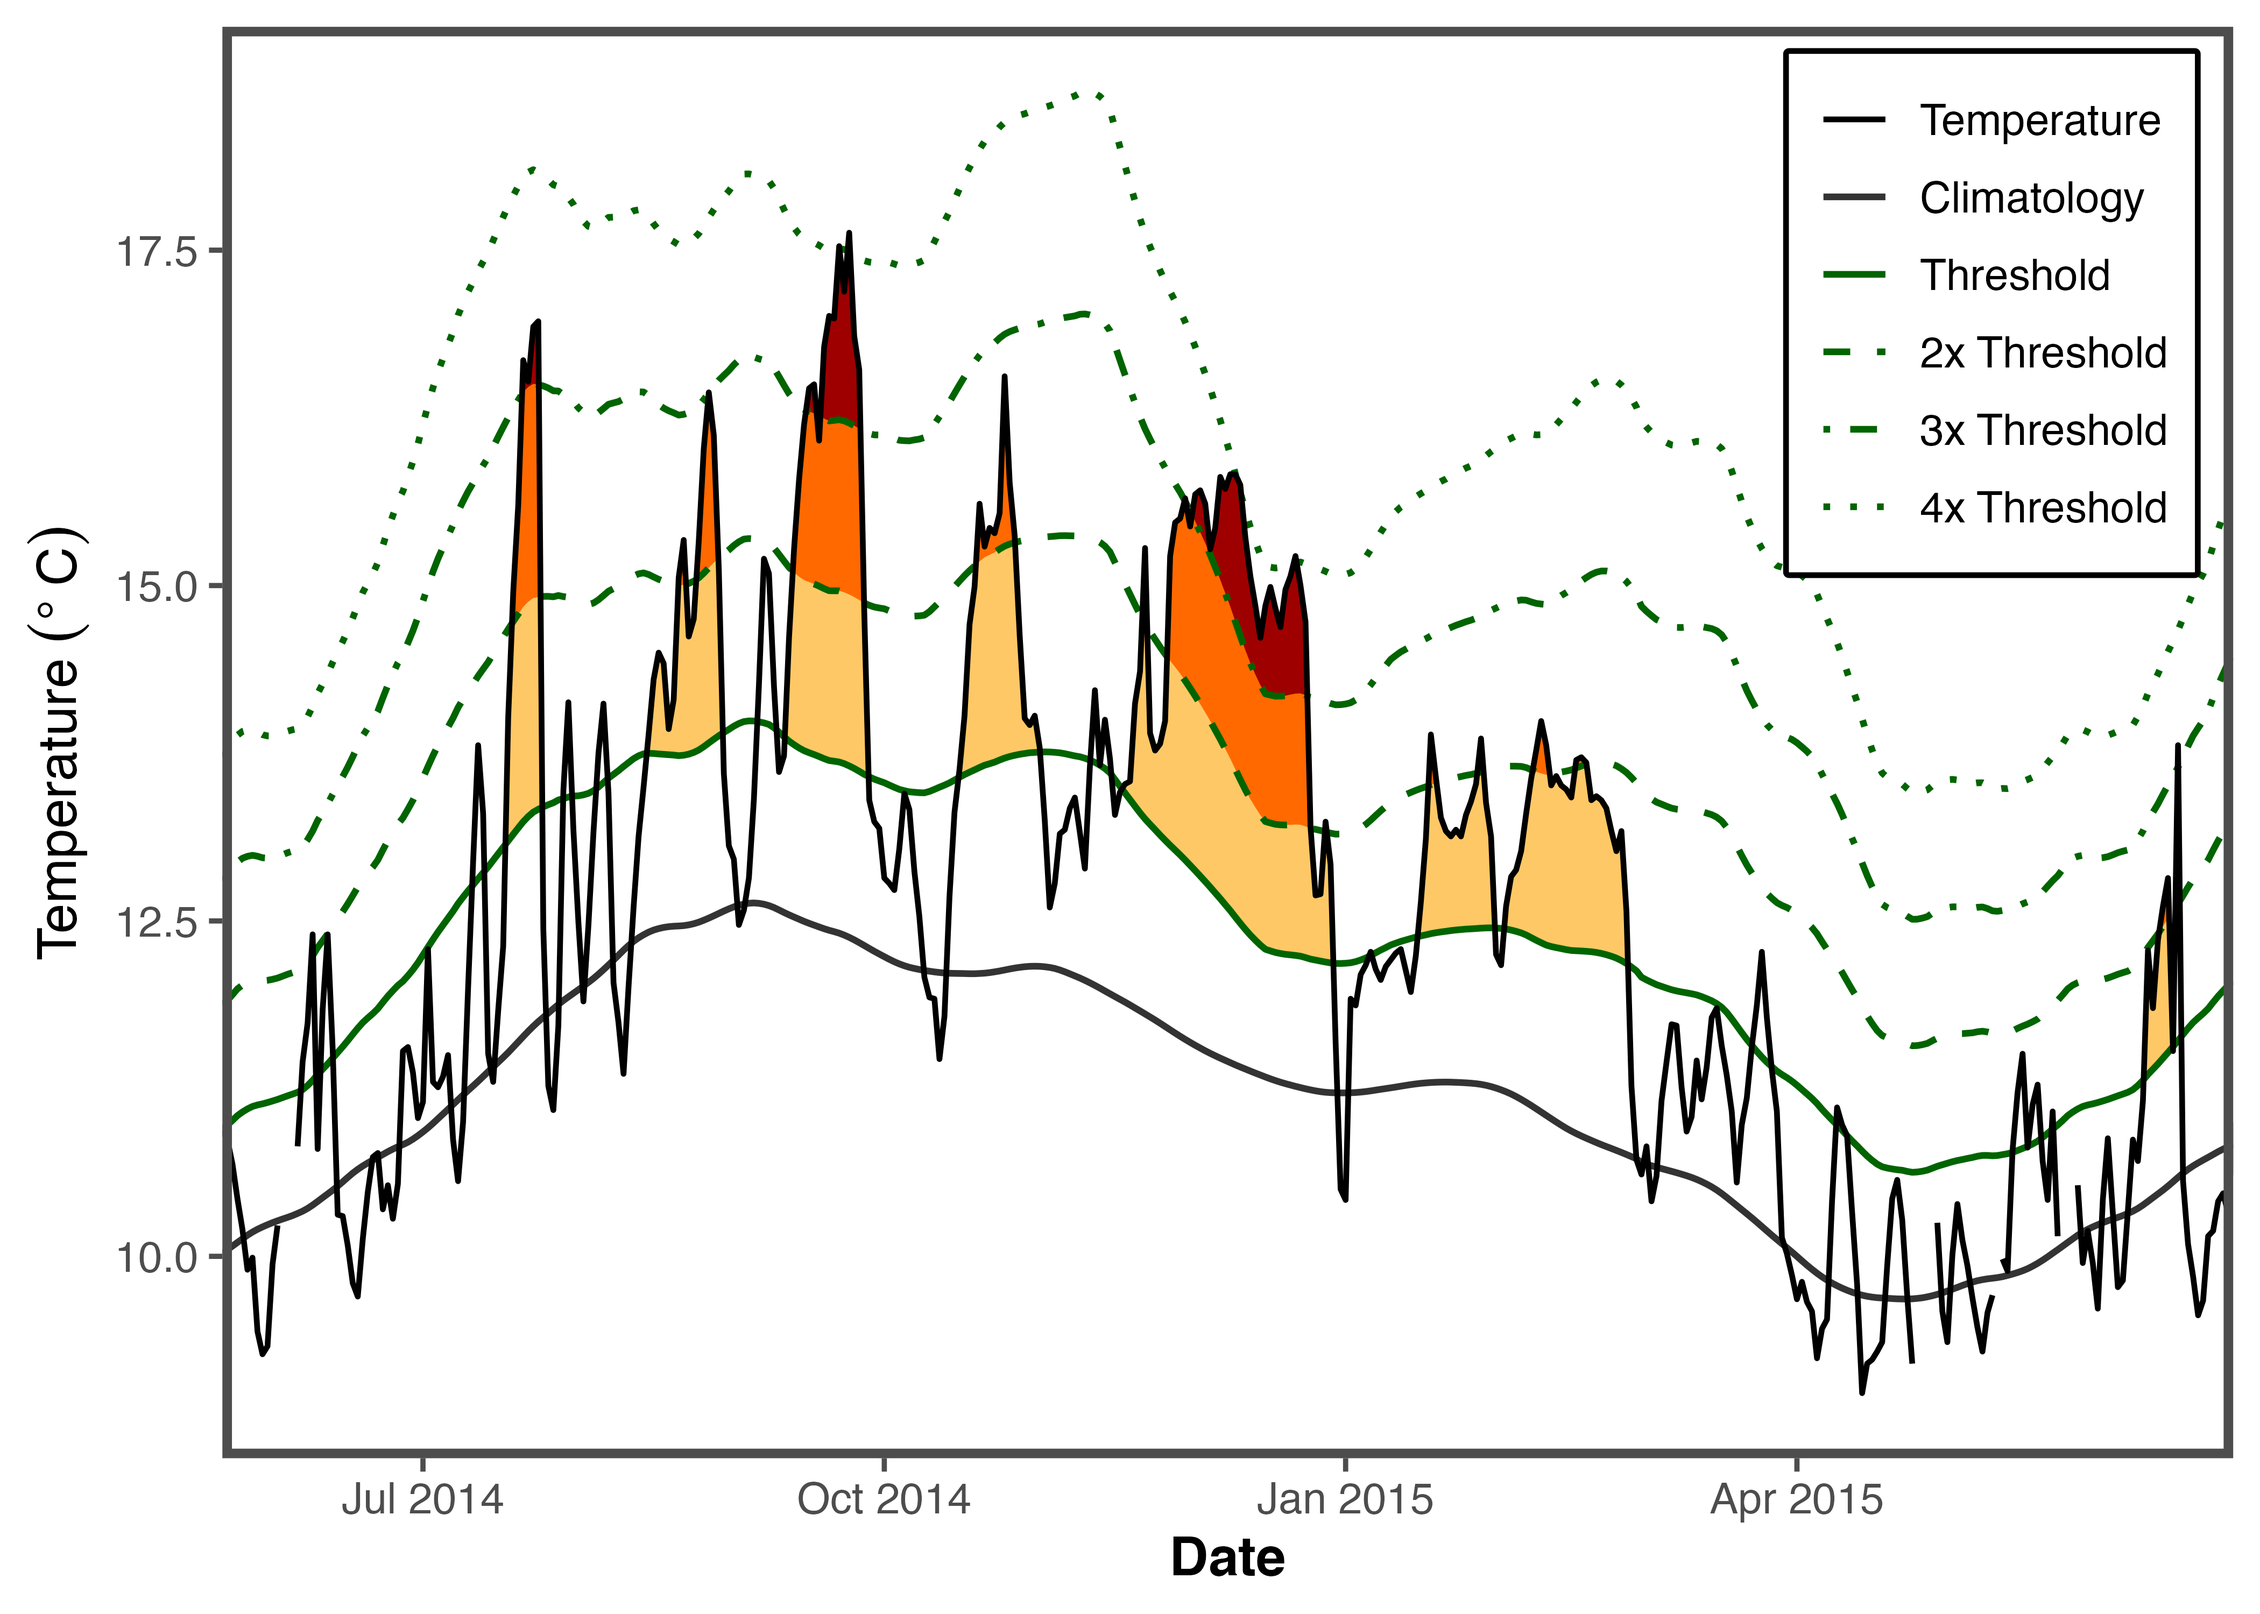
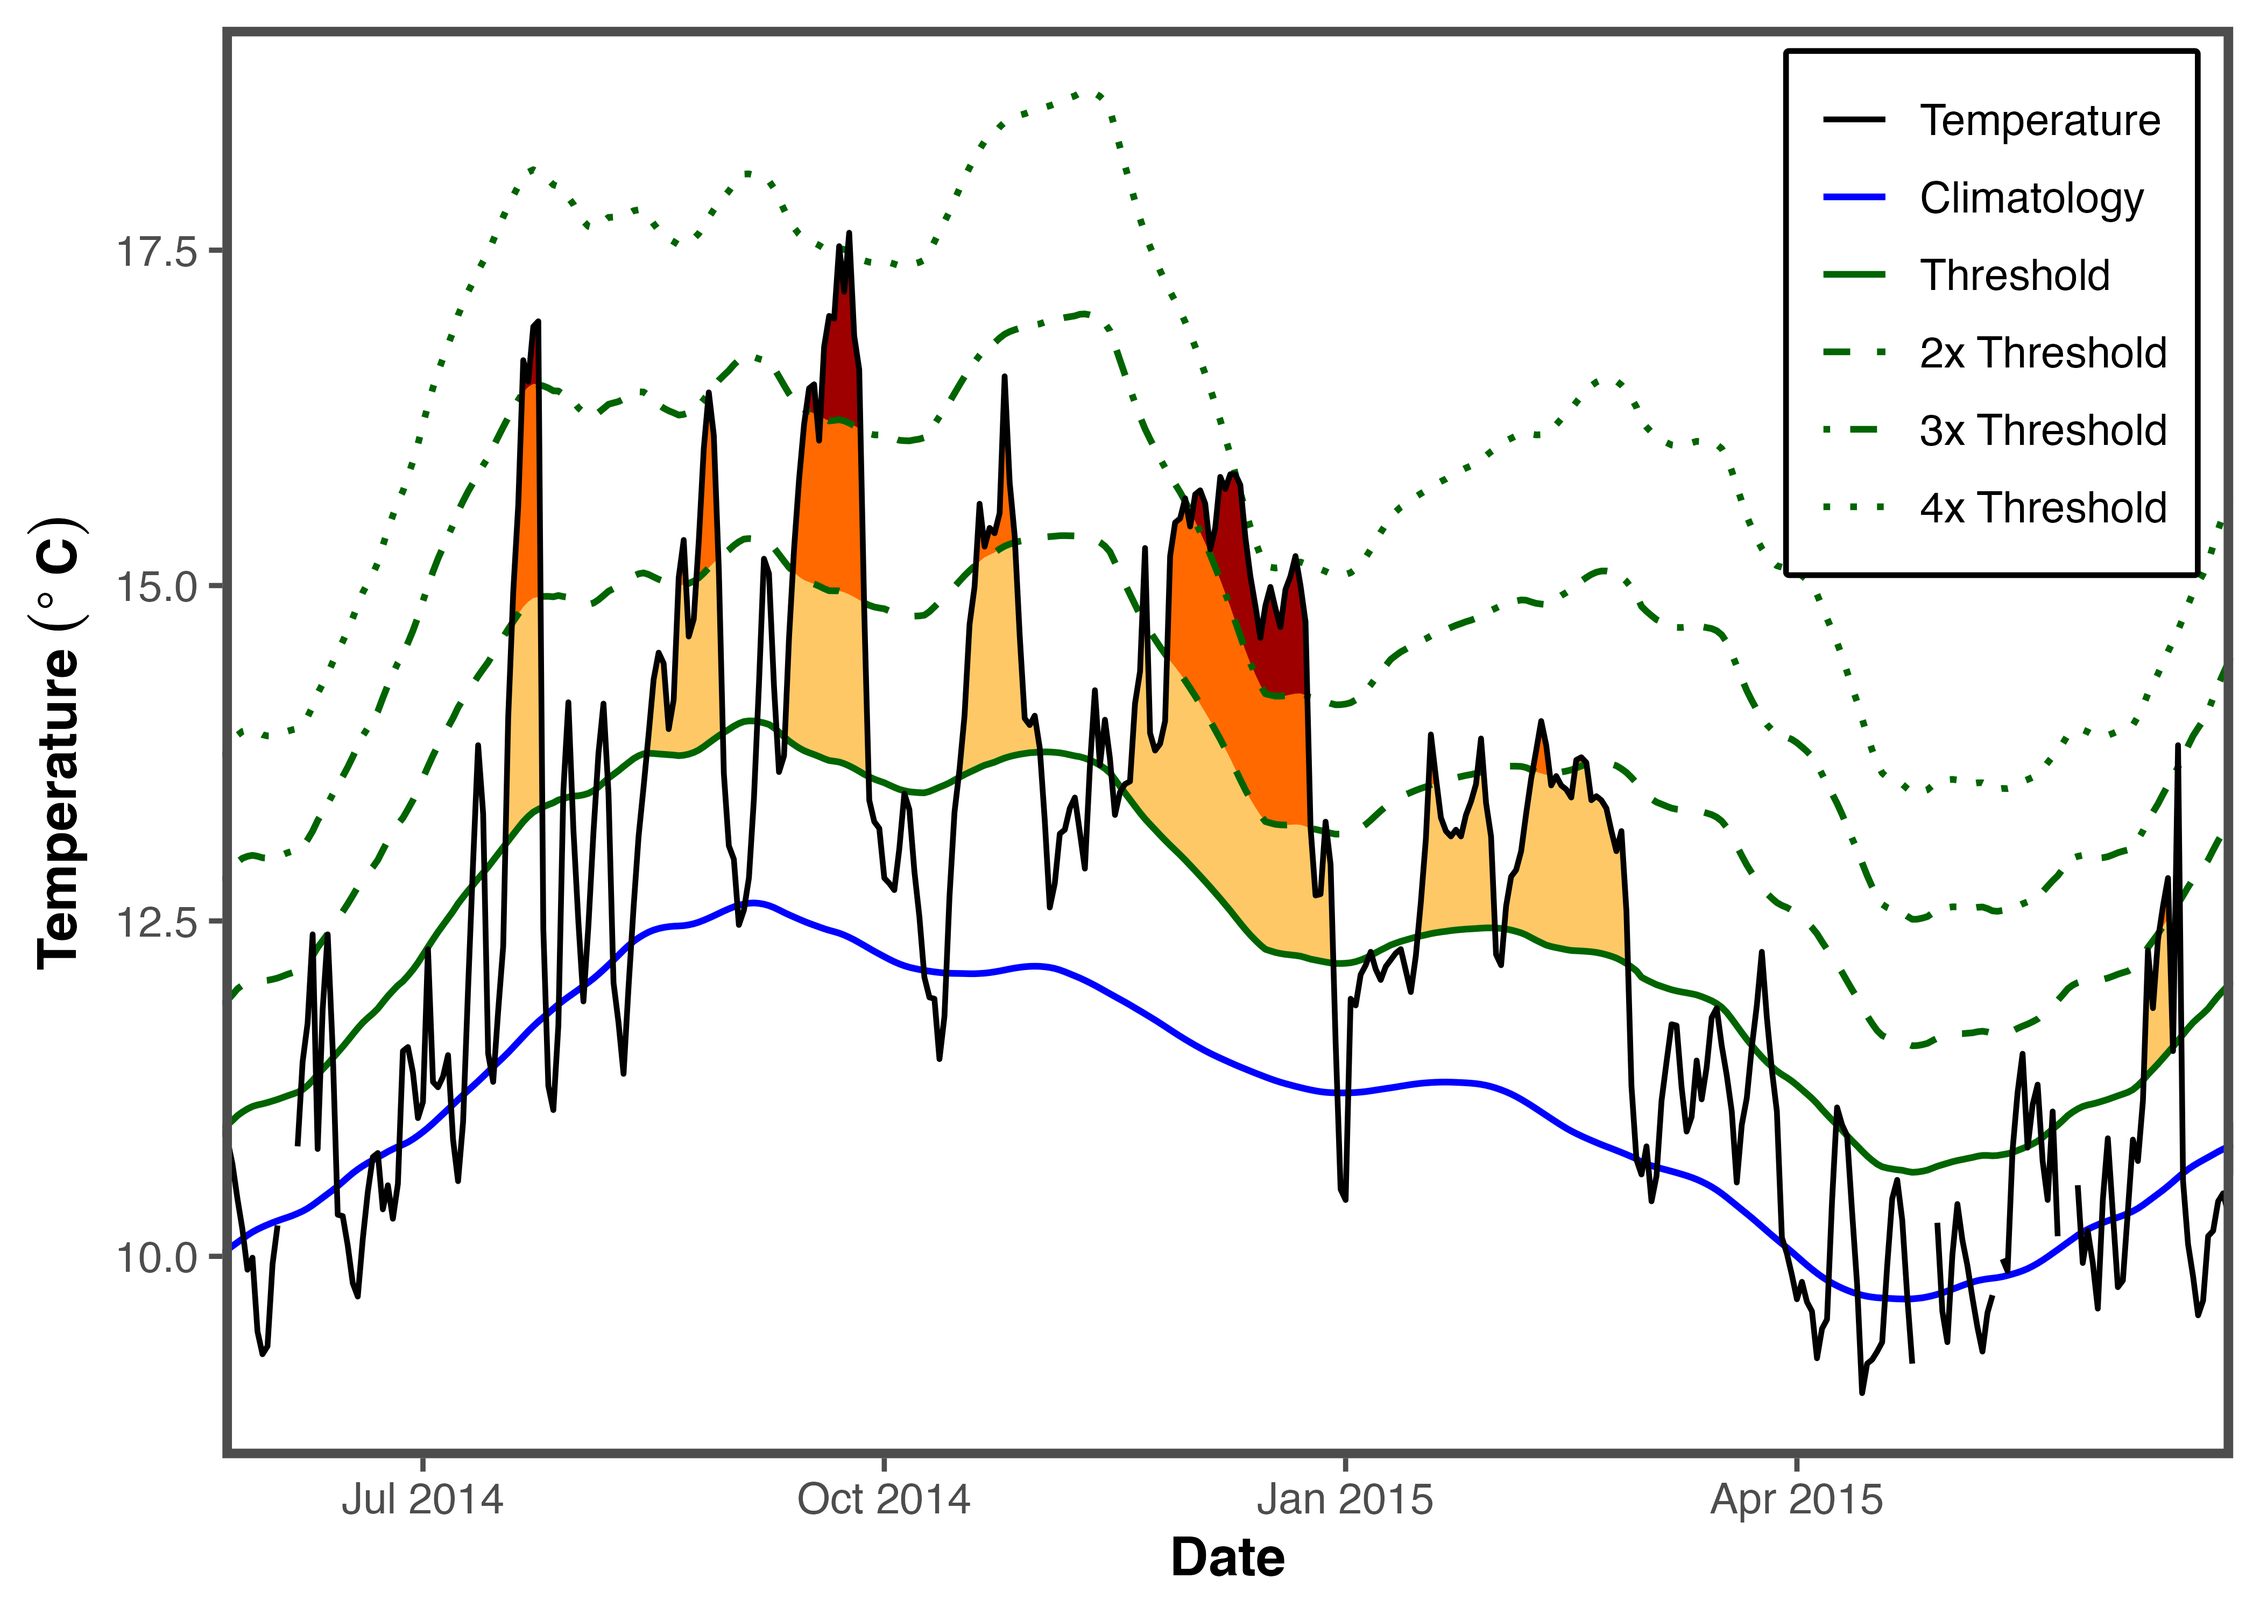
Rename scripts. Fix MHW analysis by filtering out years with too limited water temperature data and update all associated figures.

diff --git a/README.md b/README.md
@@ -1,8 +1,8 @@
-# Postelsia Collapse
-
-We examined the direct and indirect effects of the 2014-2016 northeast Pacific marine heatwave (MHW) and the synergistic sea star wasting disease outbreak on the abundance, persistence, and recovery of the sea palm, *Postelsia palmaeformis*. To do so, we leveraged long-term rocky intertidal community monitoring data collected for over two decades at seventeen sites spanning most of the southern portion of the kelp’s geographic range. We found that *P. palmaeformis* populations declined during the 2014-2016 MHW, likely due to acute thermal stress. In tandem, we found that ochre star (*Pisaster ochraceus*) loss led to mussel bed expansion, indirectly hindering *P. palmaeformis* recovery. Our results show that these synergistic disturbances acted as a “one-two punch” to drive persistent, broad-scale *P. palmaeformis* declines. 
+# Marine heatwave and keystone predator loss drive broad-scale decline and hinder recovery of a rocky intertidal kelp
 
 FD Gerraty, K Ammann, MA Douglas, M George, D Lohse, CM Miner, PT Raimondi. (2025) Marine heatwave and keystone predator loss drive broad-scale decline and hinder recovery of a rocky intertidal kelp. *In Review*
+
+We examined the direct and indirect effects of the 2014-2016 northeast Pacific marine heatwave (MHW) and the synergistic sea star wasting disease outbreak on the abundance, persistence, and recovery of the sea palm, *Postelsia palmaeformis*. To do so, we leveraged long-term rocky intertidal community monitoring data collected for over two decades at seventeen sites spanning most of the southern portion of the kelp's geographic range. We found that *P. palmaeformis* populations declined during the 2014-2016 MHW, likely due to acute thermal stress. In tandem, we found that ochre star (*Pisaster ochraceus*) loss led to mussel bed expansion, indirectly hindering *P. palmaeformis* recovery. Our results show that these synergistic disturbances acted as a "one-two punch" to drive persistent, broad-scale *P. palmaeformis* declines.
 
 ------------------------------------------------------------------------
 
@@ -10,15 +10,17 @@ There are 5 R scripts associated with this repository run all console and data p
 
 -   **00_Packages.R** loads every package that is needed in following scripts. After running this script, all following scripts can be run independently.
 
--   **01_Postelsia.R** conducts analyses and visualizations with data from MARINe *Postelsia palmaeformis* transects.
+-   **01_Heatwave.R** analyzes water temperature data from in-situ HOBO loggers to quantify, describe, and visualize local climatology and marine heatwaves.
 
--   **02_Repeat_Photos.R** conducts analyses and visualizations with extracted data from the repeated panoramic photos.
+-   **02_Postelsia.R** conducts analyses and visualizations with data from MARINe *Postelsia palmaeformis* transects.
 
--   **03_Stars.R** conducts analyses and visualizations with long-term monitoring data from MARINe sea star plots.
+-   **03_Repeat_Photos.R** conducts analyses and visualizations with extracted data from the repeated panoramic photos.
 
--   **04_Heatwave.R** analyzes water temperature data from in-situ HOBO loggers to quantify, describe, and visualize local climatology and marine heatwaves.
+-   **04_Stars.R** conducts analyses and visualizations with long-term monitoring data from MARINe sea star plots.
 
-*Note:* *Due to the conservation status of Postelsia palmaeformis, we removed all site-specific metadata from all publicly-available data and code. Because of this, R scripts to produce the map figure (Figure XB) are not published in this repository*.
+-   **05_Mussels.R** conducts analyses and visualizations of mussel dynamics with long-term monitoring data from MARINe Coastal Biodiversity Survey data.
+
+*Note:* *Due to the conservation status of Postelsia palmaeformis, we removed all site-specific metadata from all publicly-available data and code. Because of this, R scripts to produce the map figure (Figure 2B) are not published in this repository*.
 
 ------------------------------------------------------------------------
 
